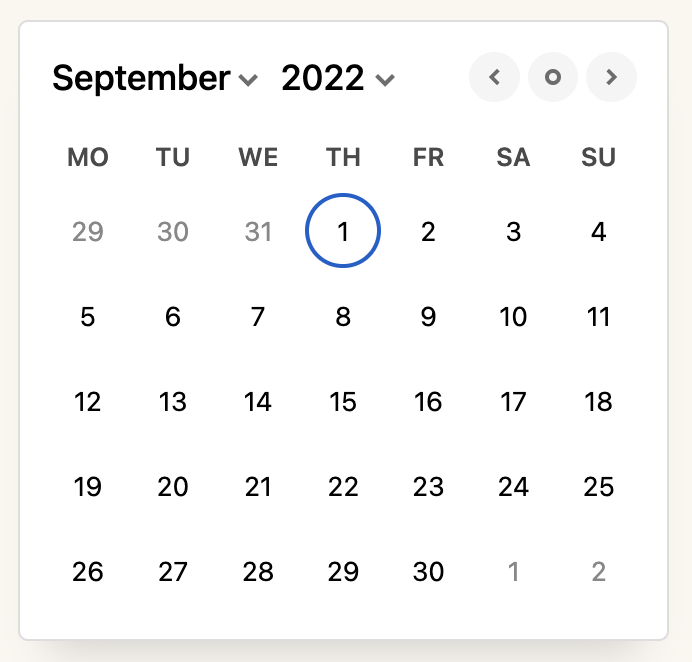
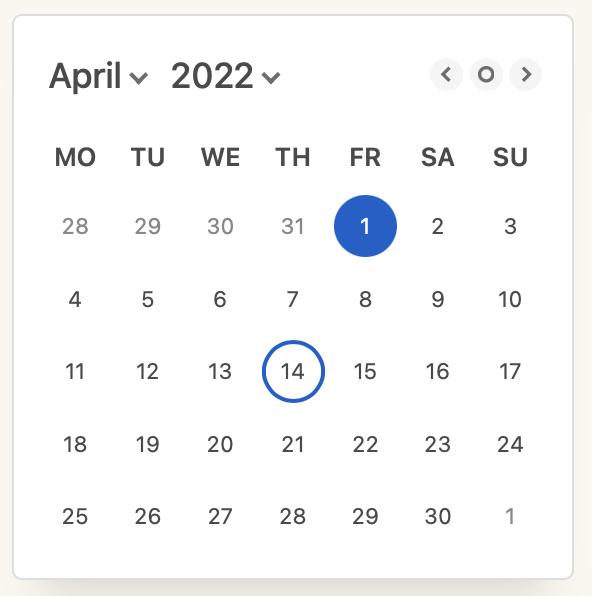
Update screenshot

diff --git a/README.md b/README.md
@@ -18,7 +18,7 @@ The calendar is minimally styled so you can easily adjust its appearance with a 
 
 Size: JS 3.6kB minified and gzipped, CSS 2.7kB gzipped.
 
-<img src="https://github.com/airblade/stimulus-datepicker/raw/main/screenshot.png" width="325px">
+<img src="https://github.com/airblade/stimulus-datepicker/raw/main/screenshot.png" width="592px">
 
 
 ## Installation
